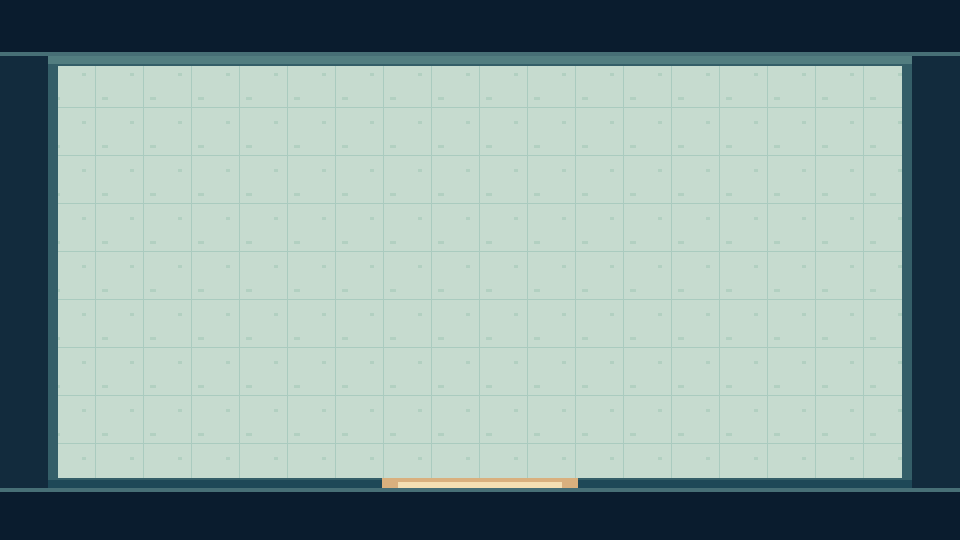
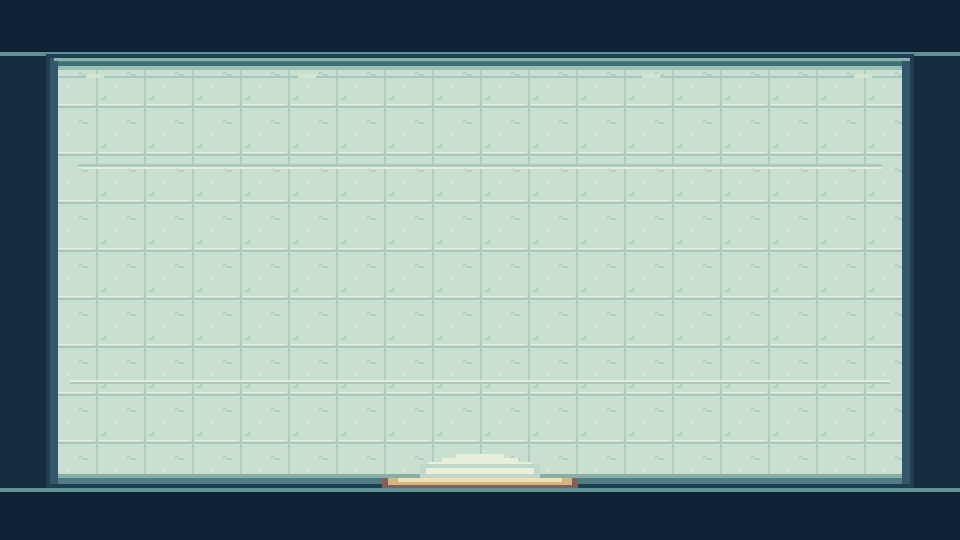
feat(art): add pixel-shaded center scenery

diff --git a/docs/visual-assets.md b/docs/visual-assets.md
@@ -10,6 +10,8 @@ The current game uses a fixed 960 × 540 world, a 48-pixel logical tile, `Phaser
 
 Character sprites come from the existing PMD importer and its ignored local cache. We create the scenario art ourselves. The first editable environment source is [`art/source/center-map.svg`](../art/source/center-map.svg). Its 960 × 540 [composite preview](../apps/client/public/assets/original/center-map.png) is exported as separate [floor](../apps/client/public/assets/original/center-floor.png) and [fixture](../apps/client/public/assets/original/center-fixtures.png) textures for runtime. `MapScene` draws those original layers, then overlays the imported PMD characters and live game state. PMD source rights and credits still require review before a public build.
 
+The center uses the same small-pixel visual vocabulary as the native-scale PMD characters without copying a PMD tileset: square edges, dark outlines, stepped highlights, and a limited set of shades per material. Reception cots, both healing machines, medicine preparation, dose surfaces, waiting beds, recovery, and the entrance have distinct silhouettes and pixel shading. Floor texture stays low contrast so sprites and treatment indicators remain legible. The six station footprints and all interaction positions remain unchanged.
+
 The carried-patient stretcher and generic medicine bottle also have original SVG sources in [`art/source`](../art/source) and matching PNG exports in [`apps/client/public/assets/original`](../apps/client/public/assets/original). The bottle uses a visible B or A condition mark, so its identity does not depend on color. Both are composited with the PMD sprites at native pixel size.
 
 The original HUD icons represent injury healing, burn, poison, completed treatment, and discharge readiness. The focused or carried patient's checklist names every required treatment as `TODO` or `DONE` and explicitly says `ANY ORDER`. A labeled patience percentage and bar share the bottom HUD. Healing and medicine preparation also show progress bars beside their stations, synchronized with server timers. The HUD does not hide the fixed map; icon shapes and text convey state without relying on color or sound.
@@ -64,6 +66,7 @@ The pilot palette uses dark navy `#0a1c2e` for HUD panels, deep teal `#345e68` f
 
 - **Pilot completed:** the SVG renders at 1280 × 720 with readable station labels, patient need icons, target prompt, and HUD without hiding the room.
 - **Native-scale integration check completed:** a local round at 1280 × 720 showed the original center map with PMD Chansey staff and a PMD Pikachu patient. Their names remained readable and their texture scale is 1×. The runtime screenshot stays local because it contains third-party character art.
+- **Scene-art roster check completed:** the revised original map was viewed at 1280 × 720 with six PMD patients and four PMD staff. The medicine, healing, waiting, and recovery areas remained visually distinct; patient and staff labels stayed readable. The roster screenshot remains local because it contains third-party character art.
 - **Equipment check completed:** in a local round, Pikachu remained visible above the original stretcher while carried by Chansey, and a prepared Burn Heal appeared as the original bottle with a B mark. The same bottle texture also supports the A mark for Antidote.
 - **Medical HUD spot check completed:** at 1280 × 720, approaching an injured Pikachu displayed its original healing icon and `HEAL TODO` checklist in the bottom bar without obscuring the map. The remaining combinations and completion states have automated mapping checks.
 - **Next integration check:** compare all native-size PMD frames in the actual Phaser scene, including Eevee's 40-pixel Walk frame. Check carriage, overlaps, and the fixed-camera viewport for every selectable character.
